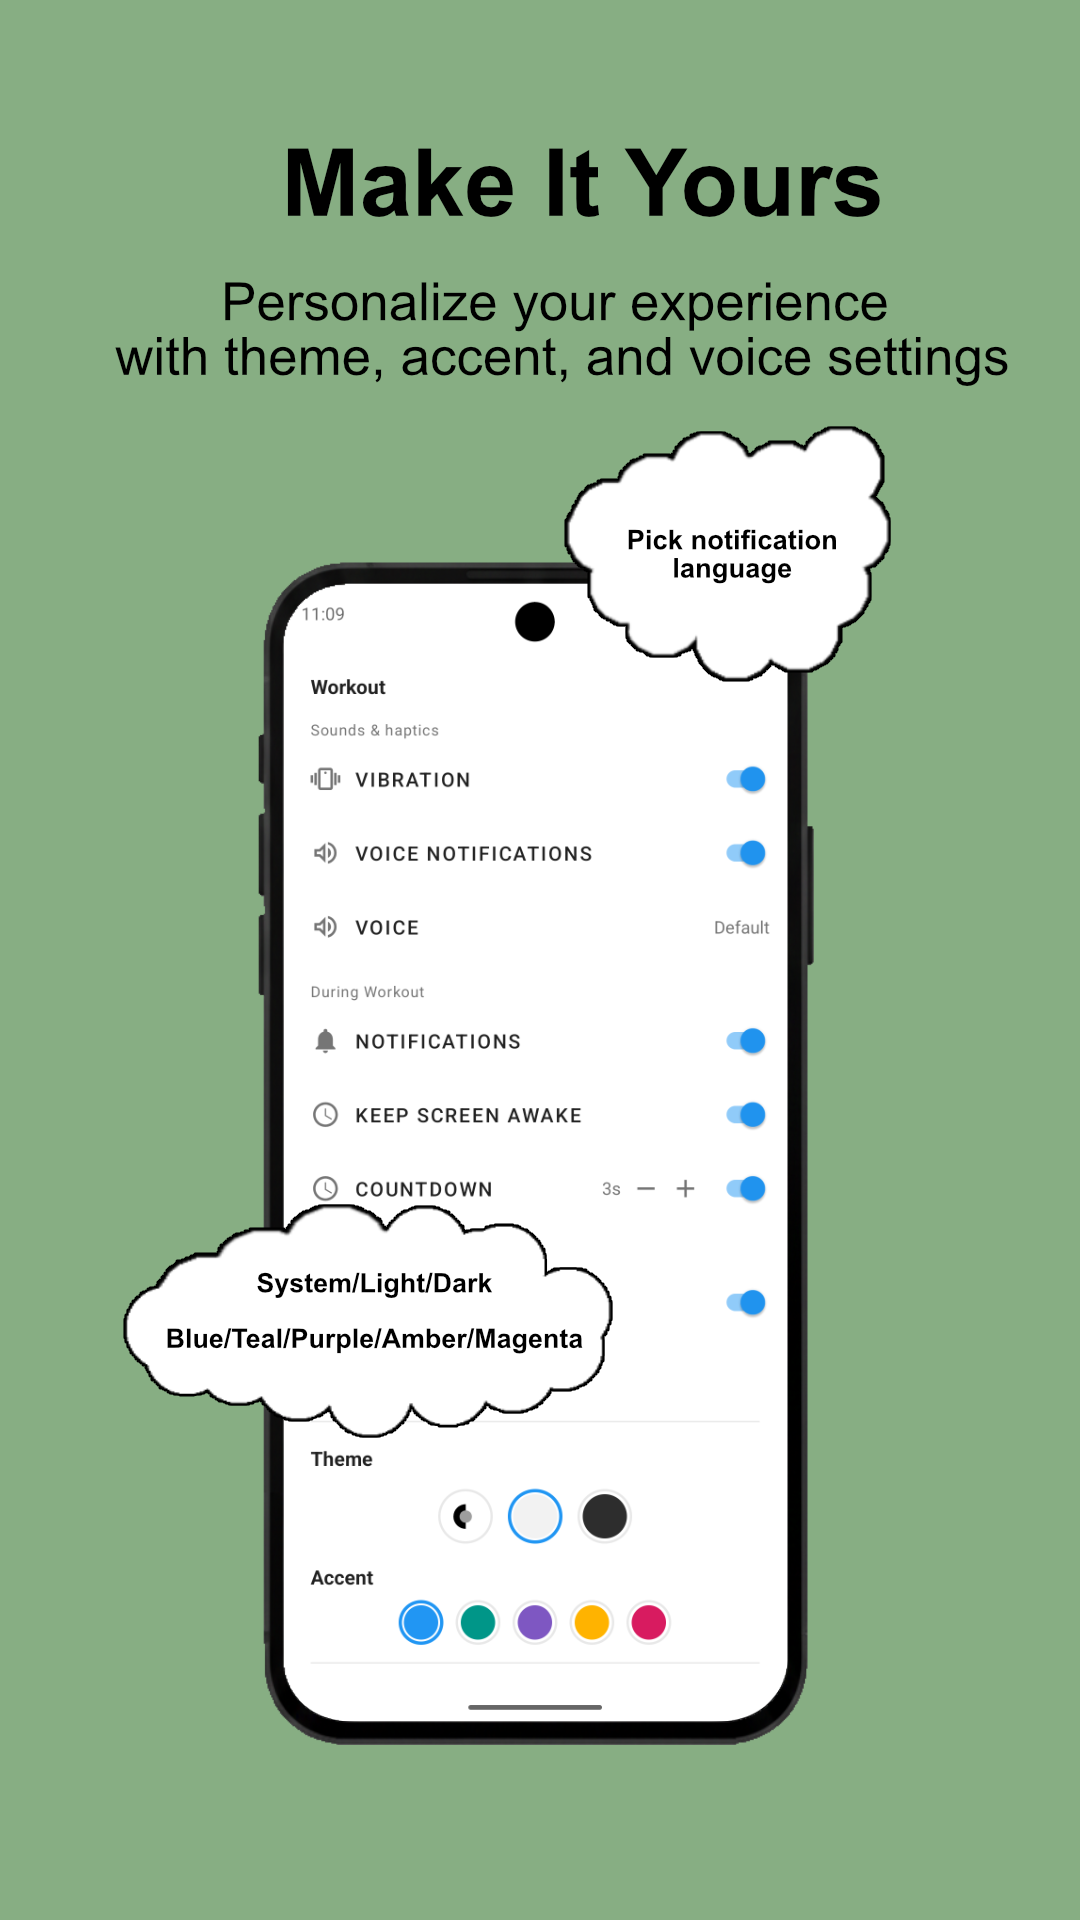
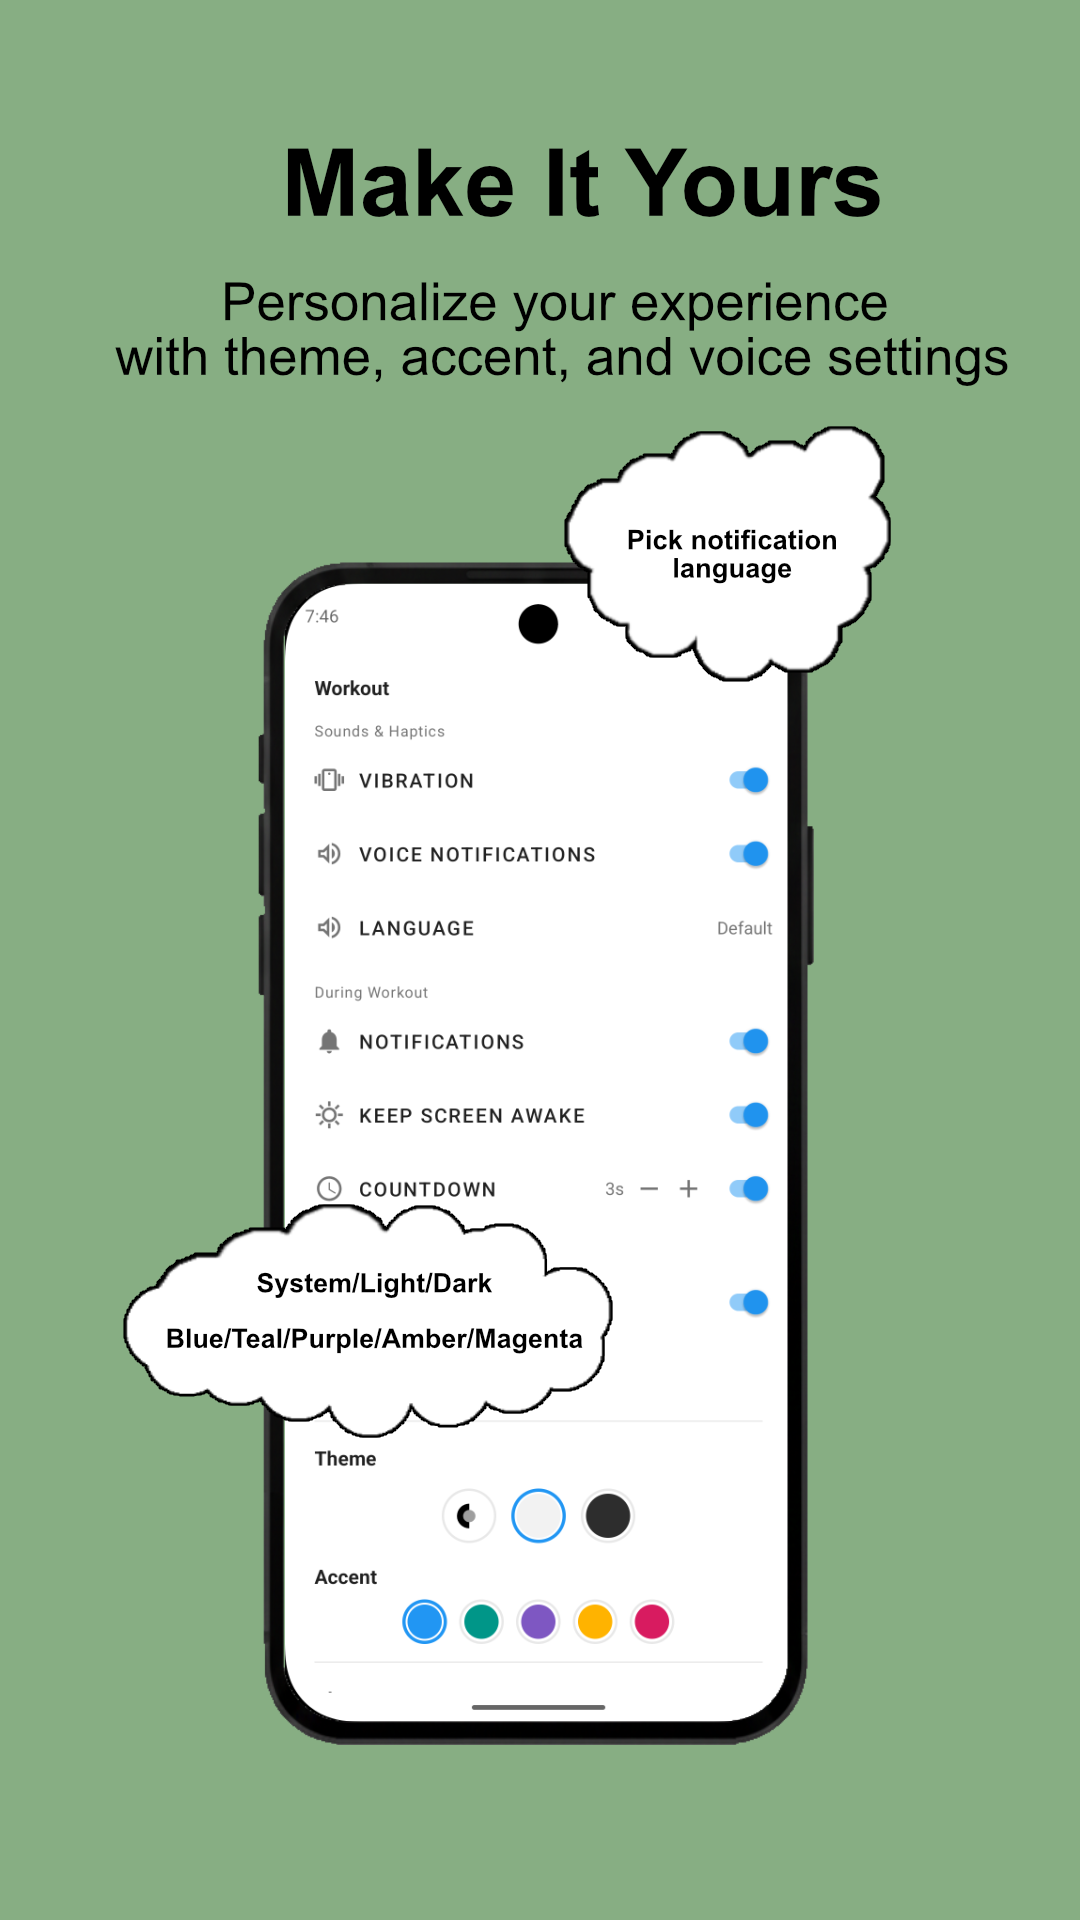
feat(release): v1.1.8
UX improvements for settings

diff --git a/CHANGELOG.md b/CHANGELOG.md
@@ -2,6 +2,14 @@
 
 ## Version 1
 
+### 1.1.8 - 2026-03-08
+
+#### UI/UX Improvements
+
+- **Settings labels:** Renamed the voice language picker label from "Voice" to "Language" so it’s clear you’re choosing the language for spoken announcements.
+- **Keep Screen Awake icon:** Replaced the timer icon with a sun (light mode) icon to better convey “keep screen on / awake”.
+- Store screenshots and promo images updated.
+
 ### 1.1.7 - 2026-03-07
 
 #### UI/UX Improvements
